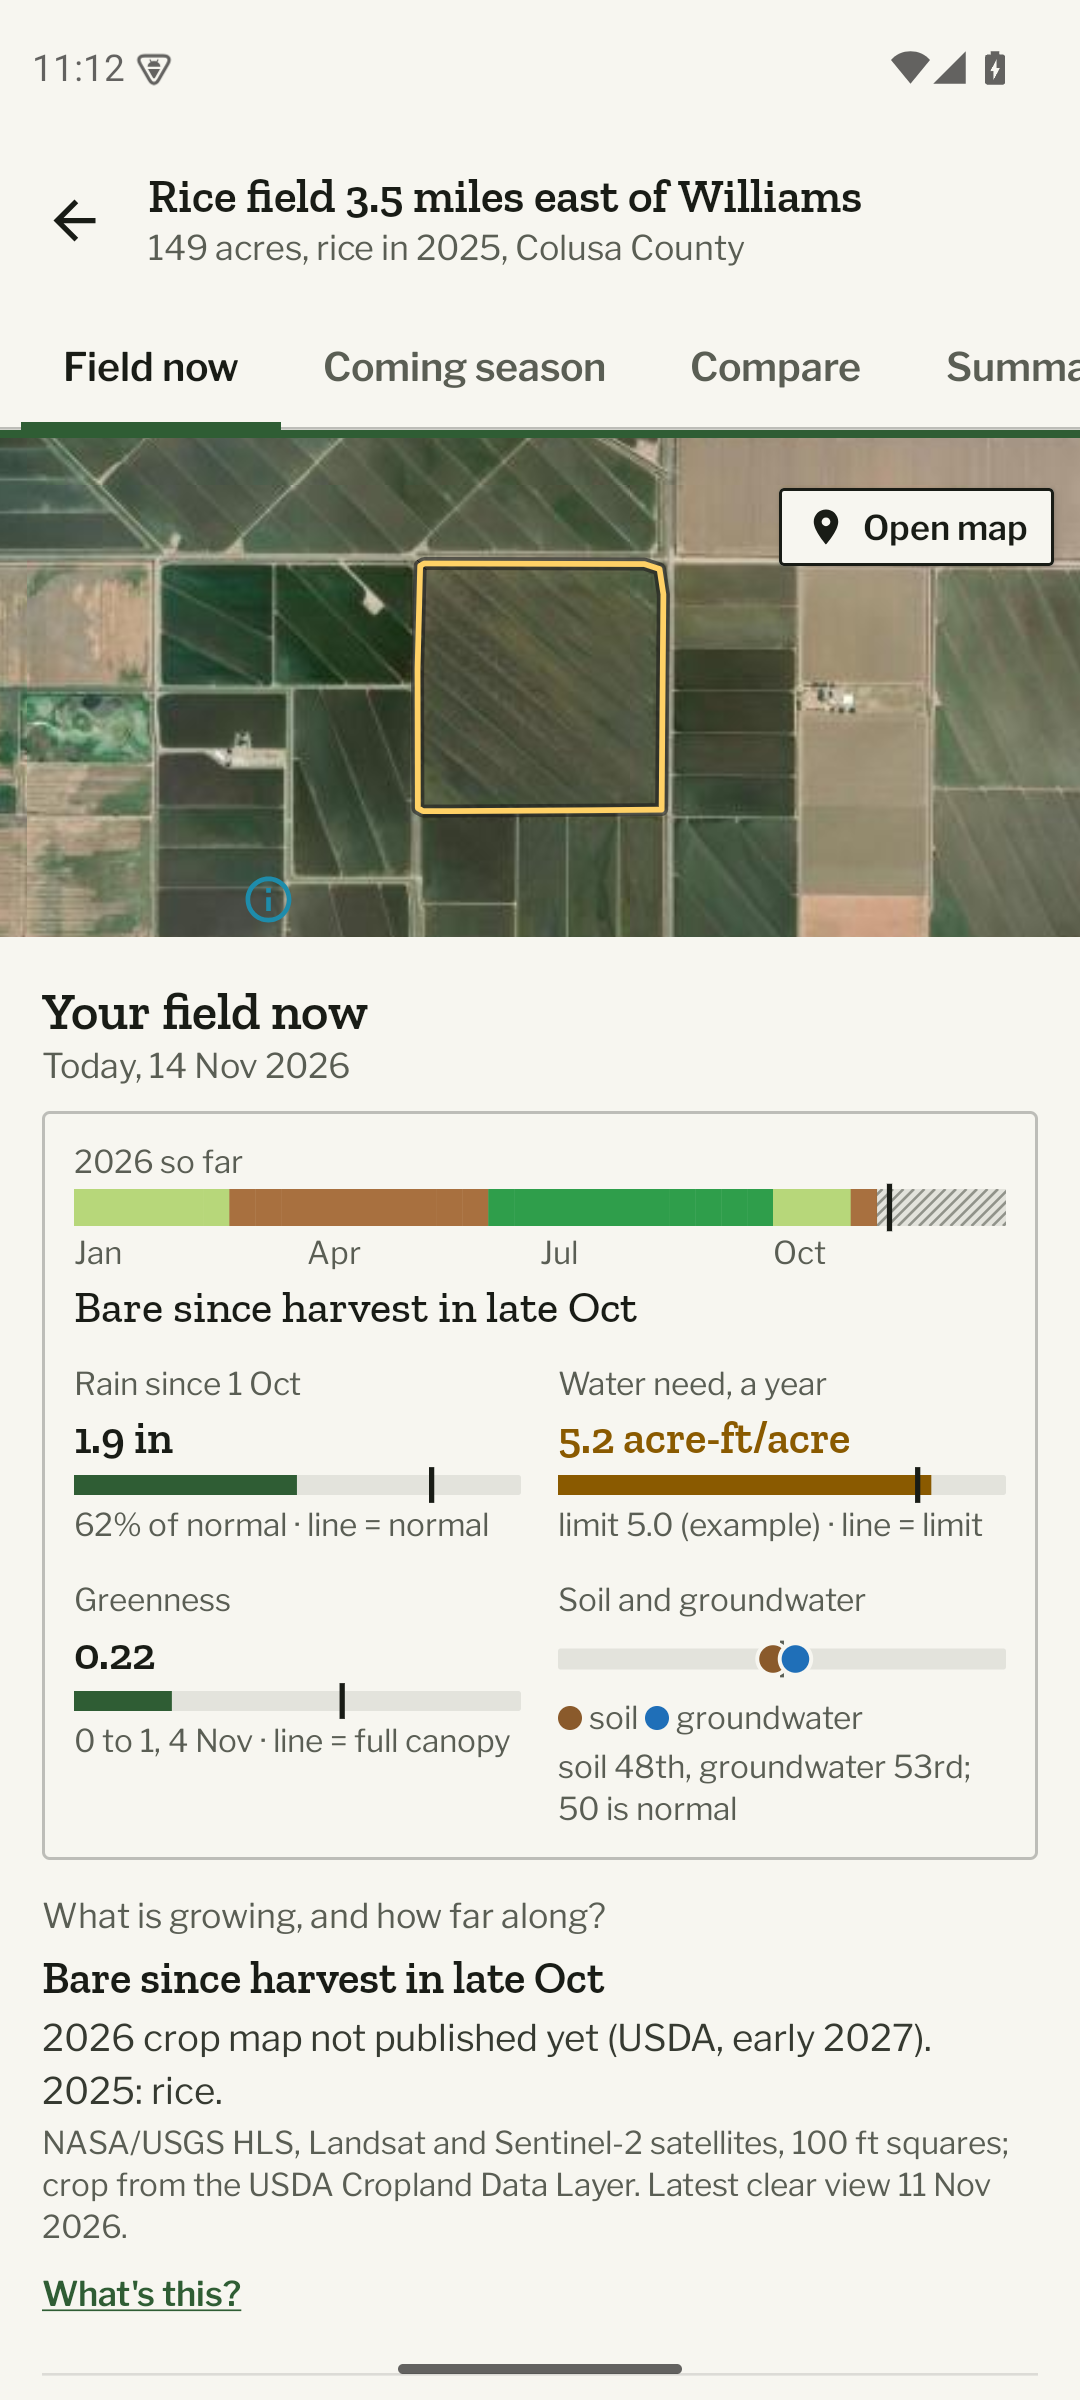
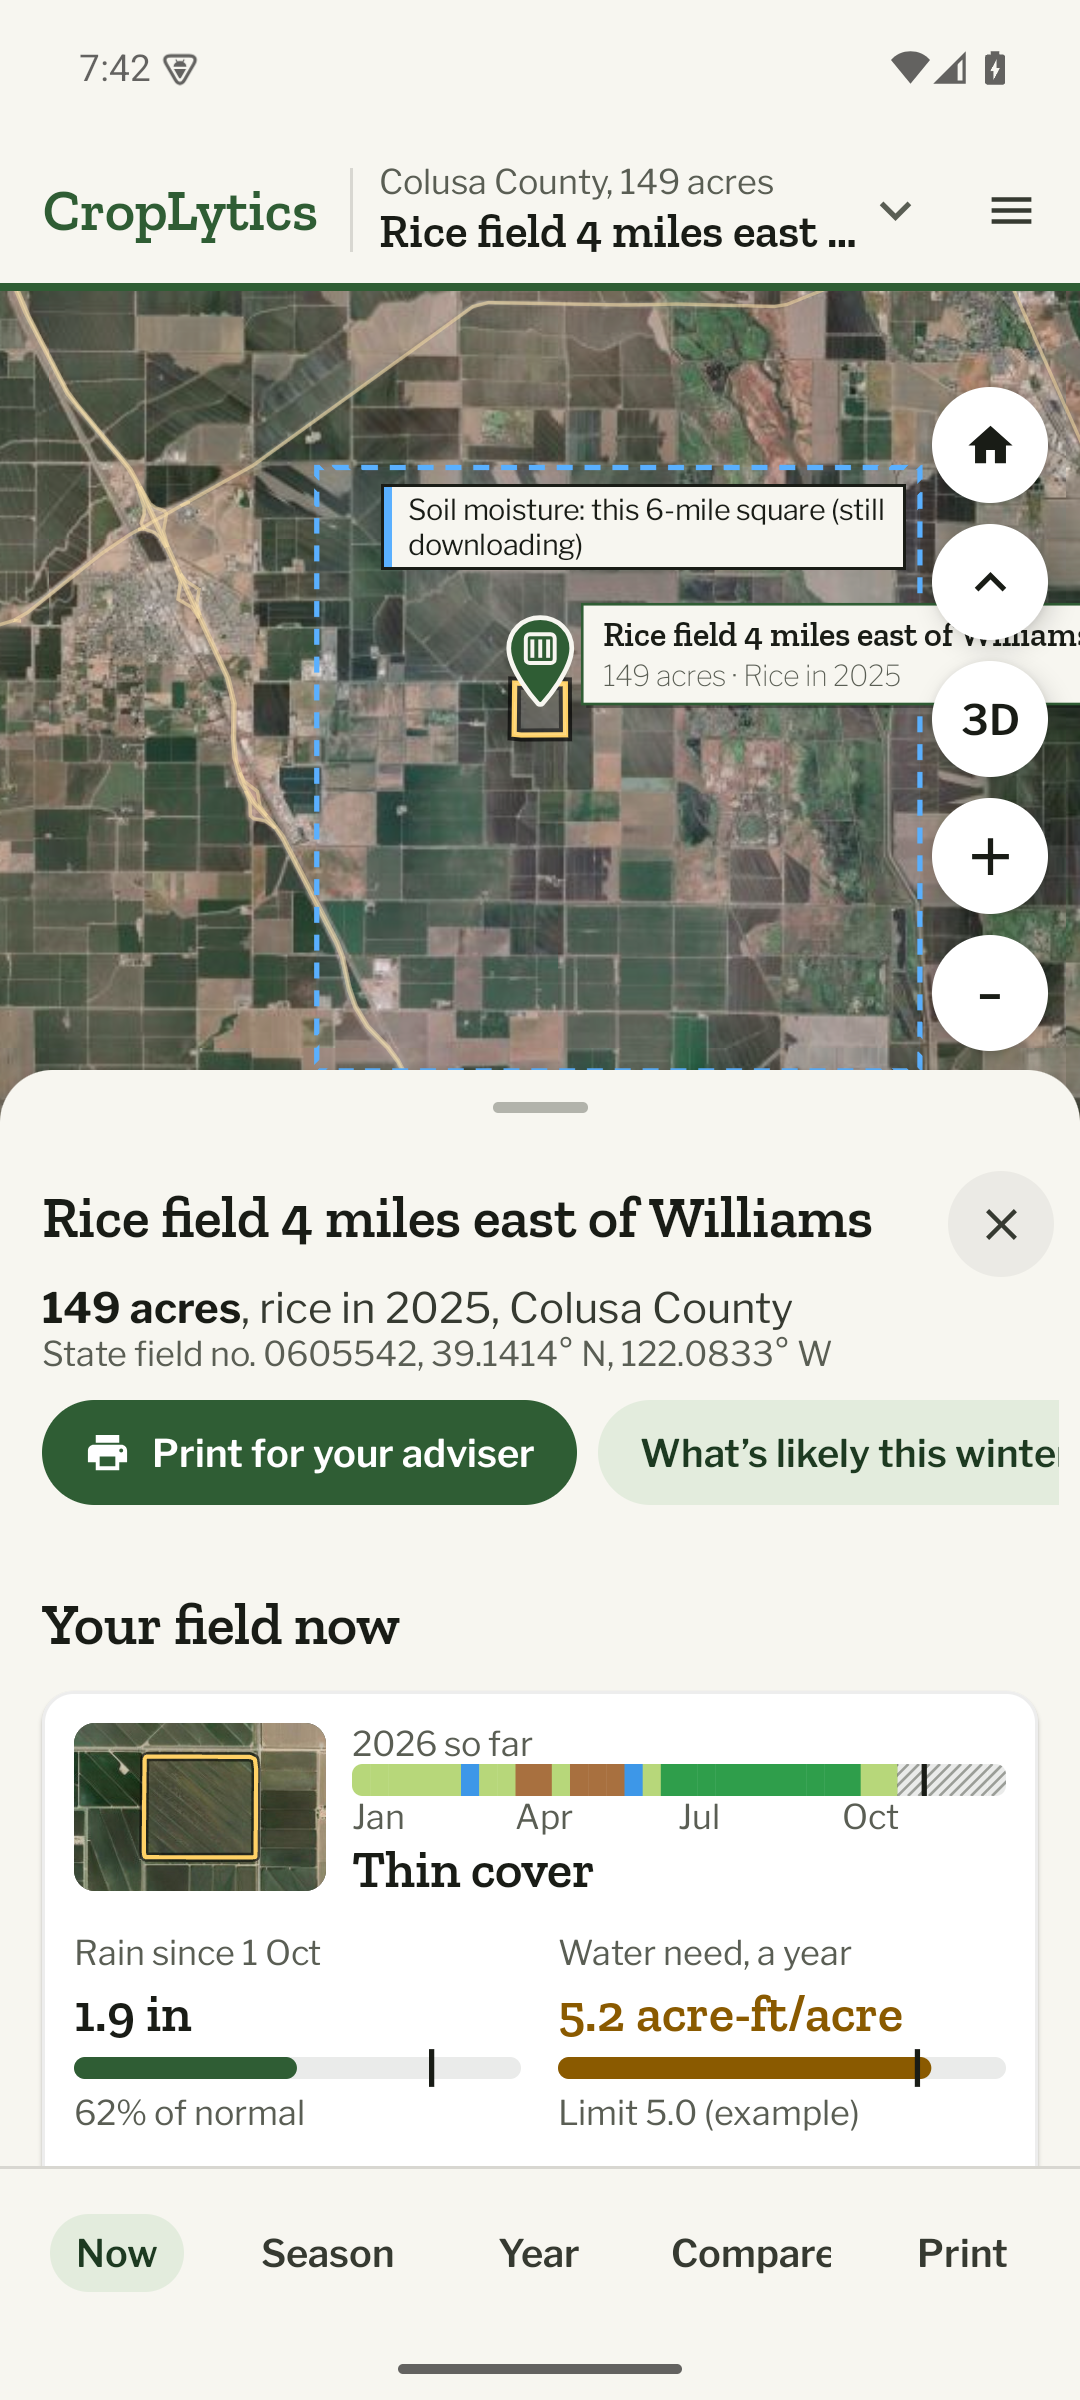
Android 1.1.0 (versionCode 2): README for the web-parity app, screenshots from the signed release build, tab pill padding

diff --git a/apps/android/app/src/main/java/app/croplytics/ui/app/Chrome.kt b/apps/android/app/src/main/java/app/croplytics/ui/app/Chrome.kt
@@ -161,7 +161,7 @@ fun BottomTabs(selected: Tab?, enabled: Boolean, onTab: (Tab) -> Unit) {
                     contentAlignment = Alignment.Center,
                 ) {
                     Text(
-                        t.short, Modifier.clip(CircleShape).background(bg).padding(horizontal = 10.dp, vertical = 6.dp), softWrap = false,
+                        t.short, Modifier.clip(CircleShape).background(bg).padding(horizontal = 6.dp, vertical = 6.dp), softWrap = false,
                         style = MaterialTheme.typography.labelMedium, maxLines = 1,
                         color = when { !enabled -> c.muted.copy(alpha = 0.45f); on -> c.onAccentContainer; else -> c.text2 },
                     )

diff --git a/apps/android/README.md b/apps/android/README.md
@@ -6,36 +6,35 @@ Screenshots: `design/screenshots/android/`.
 
 ## What it does
 
-| Screen | What the grower sees first | Behind "More detail" |
-|---|---|---|
-| **Fields** | Search, then one row per field: satellite thumbnail with the outline, farmer-style name ("Rice field 3.5 miles east of Williams"), acres, this year's crop, county, and a one-line crop record | – |
-| **Field now** | Still satellite map with the outline ("Open map" for a full map), then a visual summary (this year's bare/green/flooded strip, rain vs normal, water need vs limit, greenness, soil and groundwater percentiles), then at most 4 one-sentence answers, each with a source line | About this field, crops grown, how to read the strip, events, NASA data behind the field, crop-stress weeks, standing water, measured water use (OpenET), machine-learning check, crop insurance, every source |
-| **Coming season** | 3 items: rain outlook (with drought), water in storage and allocations, next season's water need | Every 3-month outlook, the longest bare stretch and heavy-rain odds, the full outlook paragraph, what isn't published yet |
-| **Compare** | Your water limit (editable, saved per field, "example, change to yours" until you change it), today's rotation, then the top 2 options as "You gain / You give up" in acre-feet and days; "See all options" | How the options are ranked (rule-of-thumb scores), how good the water estimate is (OpenET), what better/worse means |
-| **Summary** (for your adviser) | Pick the option, then "Share as PDF": a one-page US Letter summary drawn with `PdfDocument` and sent through the Android share sheet | – |
+A native port of the web app (`frontend/app`), screen for screen, in its phone layout and to `docs/ui-redesign-spec.md`.
+The satellite map fills the screen, the field panel is a draggable bottom sheet (128 dp, 52%, full), and the sections are bottom tabs.
 
-Every screen has loading skeletons, an error panel with "Try again", pull to refresh, and a "Waking the server, up to a minute" panel when the free Render server is asleep. Everything the app has fetched is saved on the phone, so a field opens offline with "Saved on <date>. Can't reach the server right now."
+| Part | What it shows |
+|---|---|
+| **Map** | Esri imagery with OpenFreeMap labels; pan, pinch-zoom, rotate, two-finger tilt. A pin for every field (tap to open), outlines, SMAP / IMERG / GRACE footprints, Map layers sheet with pixel sizes. Zooming in under a field tilts the camera and its 30 m cells rise as fill-extrusions coloured by greenness, with SMAP and GRACE-FO slabs, posts and labels. BC: reserve outlines as a context layer. |
+| **Pick your field** | Search, Rice / Forage / British Columbia chips, satellite thumbnails with outlines, 2023 to now season strips, one notable line. |
+| **Viewing date** | Menu > Viewing: Today, quick picks (last summer, last spring, 2023 floods, 2022 drought) and a month picker; a floating "Showing ... Back to today" pill. |
+| **Field now** | Paper header (collapses on scroll) with action pills; glance card (season strip, rain, water need, greenness, soil and groundwater; readings count up, bars glide); five answers including soil composition. More detail: NASA data list with the ISS photo, About the ground, the last 3 seasons, events, Sources. BC: Working with First Nations. |
+| **Coming season** | Winter rain, water supply (BC: watershed and irrigation orders), next season's need; More detail: outlooks, drought, reservoirs, allocations, snowpack, bare stretch, need by rotation. |
+| **This field's year** | Typical year and one strip per season with rain, OPERA water and stress marks; rule vs machine learning; replay on the map; tap a cell to move the date. |
+| **Compare** | The two best options (all with More detail), water limit (saved per field), weather replays, priorities and what-ifs re-scored by POST /score, gain / give up with range bars, See all options. |
+| **Print** | One Letter page for the adviser; Share as PDF or Print (PdfDocument, Android print). |
 
-A deep link opens any field section directly: `croplytics://field/<id>?tab=<0-3>` (0 field now, 1 coming season, 2 compare, 3 summary for your adviser).
+Every part has skeletons, an error panel with "Try again", and "Waking the server, up to a minute" for the sleeping free server. Everything fetched is saved on the phone ("Saved on <date>"). Deep link: `croplytics://field/<id>?tab=<0-4>`.
 
 ## Architecture
 
-Single activity, Jetpack Compose and Material 3, MVVM with unidirectional data flow.
+Single activity, Compose and Material 3, MVVM with unidirectional data flow.
 
 ```
-ui/            Compose screens (stateless *Content functions) + one @HiltViewModel per screen,
-               each exposing a StateFlow<UiState>; events go up as plain callbacks
-  fields/      Fields list and search
-  field/       Field container: top bar, text tabs (3 dp spot-green indicator), HorizontalPager
-  now/ season/ compare/ summary/ map/
-  components/  Status (skeleton, waking, error, offline note), blocks, charts (Canvas), MapLibre map, thumbnails
-  theme/       Bulletin palette tokens (light and dark), Zilla Slab + Libre Franklin, small radii
-domain/        Pure Kotlin: payload -> farmer wording (names, units, answers, gain/give-up, PDF content)
-data/
-  remote/      Retrofit + kotlinx.serialization API and DTOs (every field optional)
-  local/       Room cache (one JSON row per response, with the time it was saved); DataStore water limits
-  repository/  FieldRepository: offline-first flows of LoadState (Loading, Waking, Ready, Failed)
-di/            Hilt module: OkHttp (75 s read timeout for the sleeping server), Retrofit, Room, DataStore
+ui/app/        MainScreen (map + sheet + tabs), MainViewModel (selection, date, tabs, layers, compare tuning,
+               map commands as a channel), chrome (top bar, sheets), the pick list
+ui/panels/     Field now, Coming season, This field's year, Compare, Print (LazyListScope builders)
+ui/map/        CropMap (MapLibre), pin bitmaps, overlays (stack and footprint labels, controls, legend)
+ui/components/ Redesign controls (pills, chips, segmented, disclosure, focus ring, count-up), charts, status
+ui/theme/      Spec tokens (light and dark), Zilla Slab + Libre Franklin, reduce-motion flag
+domain/        Pure Kotlin ports of the web's lib.ts, season.ts, bare.ts, nasa.ts and components
+data/          Retrofit API, Room cache, file store for the 2 MB daily record and grid, DataStore water limits
 ```
 
 **Data flow.** A ViewModel combines repository flows (location, calendar, NASA readings, rotations, outlook, the saved limit) and maps them through `domain/` builders into one UI state. `DefaultFieldRepository.cached()`:
@@ -46,7 +45,7 @@ di/            Hilt module: OkHttp (75 s read timeout for the sleeping server), 
 
 Concurrent requests for the same key share one network call (four tabs, one fetch). A 404 (a route the live server doesn't have yet, such as `stress` or `water_seen`) becomes "Not on the server for this field yet", never a crash.
 
-**Compare re-scoring.** The limit slider updates the screen at once, is saved to DataStore after 400 ms, and `POST /api/locations/{id}/score` runs once the value has been still for 450 ms. Scored results are cached per limit. If re-scoring fails, the server's default ranking is shown with a note.
+**Re-scoring.** The limit slider updates the screen at once, is saved to DataStore after 400 ms, and `POST /api/locations/{id}/score` runs once the value has been still for 450 ms. Scored results are cached per limit. If re-scoring fails, the server's default ranking is shown with a note.
 
 **Map and imagery.** MapLibre Native Android with an inline raster style on Esri World Imagery (no key, as in `CONTRACT.md`); the field outline is a yellow `#ffd166` line on a dark casing. List thumbnails are Esri `MapServer/export` images cut to a Web Mercator box around the field, with the outline drawn on top in Compose; Coil keeps them on disk for offline use.
 
@@ -67,13 +66,9 @@ export JAVA_HOME=/path/to/jdk-17
 
 Use a local API instead of the live one with `./gradlew assembleDebug -PapiBaseUrl=http://10.0.2.2:8000/api/` (`10.0.2.2` is the host machine from the emulator; a non-HTTPS URL also needs a network security config).
 
-**Tests** (`app/src/test`):
-- `data/DefaultFieldRepositoryTest`: MockWebServer with real API payloads. First load and save, the fresh-cache shortcut, a stale copy then the fresh one, offline with a saved copy, 404 vs 5xx, the waking state on a slow server, the shared in-flight request, and the score POST body and per-limit cache.
-- `domain/BuildersTest`, `domain/FieldNamesTest`: farmer wording, units, the 4 answers, the 3 coming-season items, gain/give-up, limit fit, the adviser summary and thumbnail geometry.
-- `ui/ViewModelsTest`: the ViewModels against a fake repository with coroutine test dispatchers (search, waking/offline/error, retry, saved vs example limit, debounced save and re-score, failed re-score, "See all options").
-- `ui/ScreensUiTest`: Compose UI tests under Robolectric (the field list and opening a field, the waking panel, error and "Try again", and Compare's limit buttons and "See all options").
+**Tests** (`app/src/test`, 42): repository with MockWebServer (offline-first cache, waking, 404 vs 5xx, shared requests, HLS fallback, file store); the live field list parses (11 fields incl. BC); the web ports (clock, calendar, five answers, coming season, year, compare verdicts, the 3D stack, NASA list, brief); BC (watershed and orders, gap lines, rain-fed, First Nations, estimates); MainViewModel (filters, select-and-fly, date and replay, tabs, debounced re-score, saved limit, deep link); Compose UI tests under Robolectric.
 
-Fixtures in `app/src/test/resources/fixtures/` are trimmed copies of the live API's responses for the Colusa rice field (14 Nov 2026).
+Release: `./gradlew assembleRelease -Pabi=arm64-v8a` signs with the keystore named in `~/.croplytics/keystore.properties` (outside git).
 
 ## Releasing on Google Play (not done)
 
@@ -90,6 +85,6 @@ No accounts, keys or listings have been created. To publish:
 
 Before a real release: move the API off the free Render plan (cold starts), add Esri's attribution and terms review for imagery use, and add crash reporting.
 
-## Not in this app
+## Not in this app yet
 
-To match the web app's farmer-first scope (`PLAN.md`): no 3D view, no date picker or year replay, no "your priorities" weighting or what-if sliders on Compare, and no news timeline.
+The salmon panel (waiting for its `/salmon` route) and the web's 3D water-use mode (removed from the web too).
